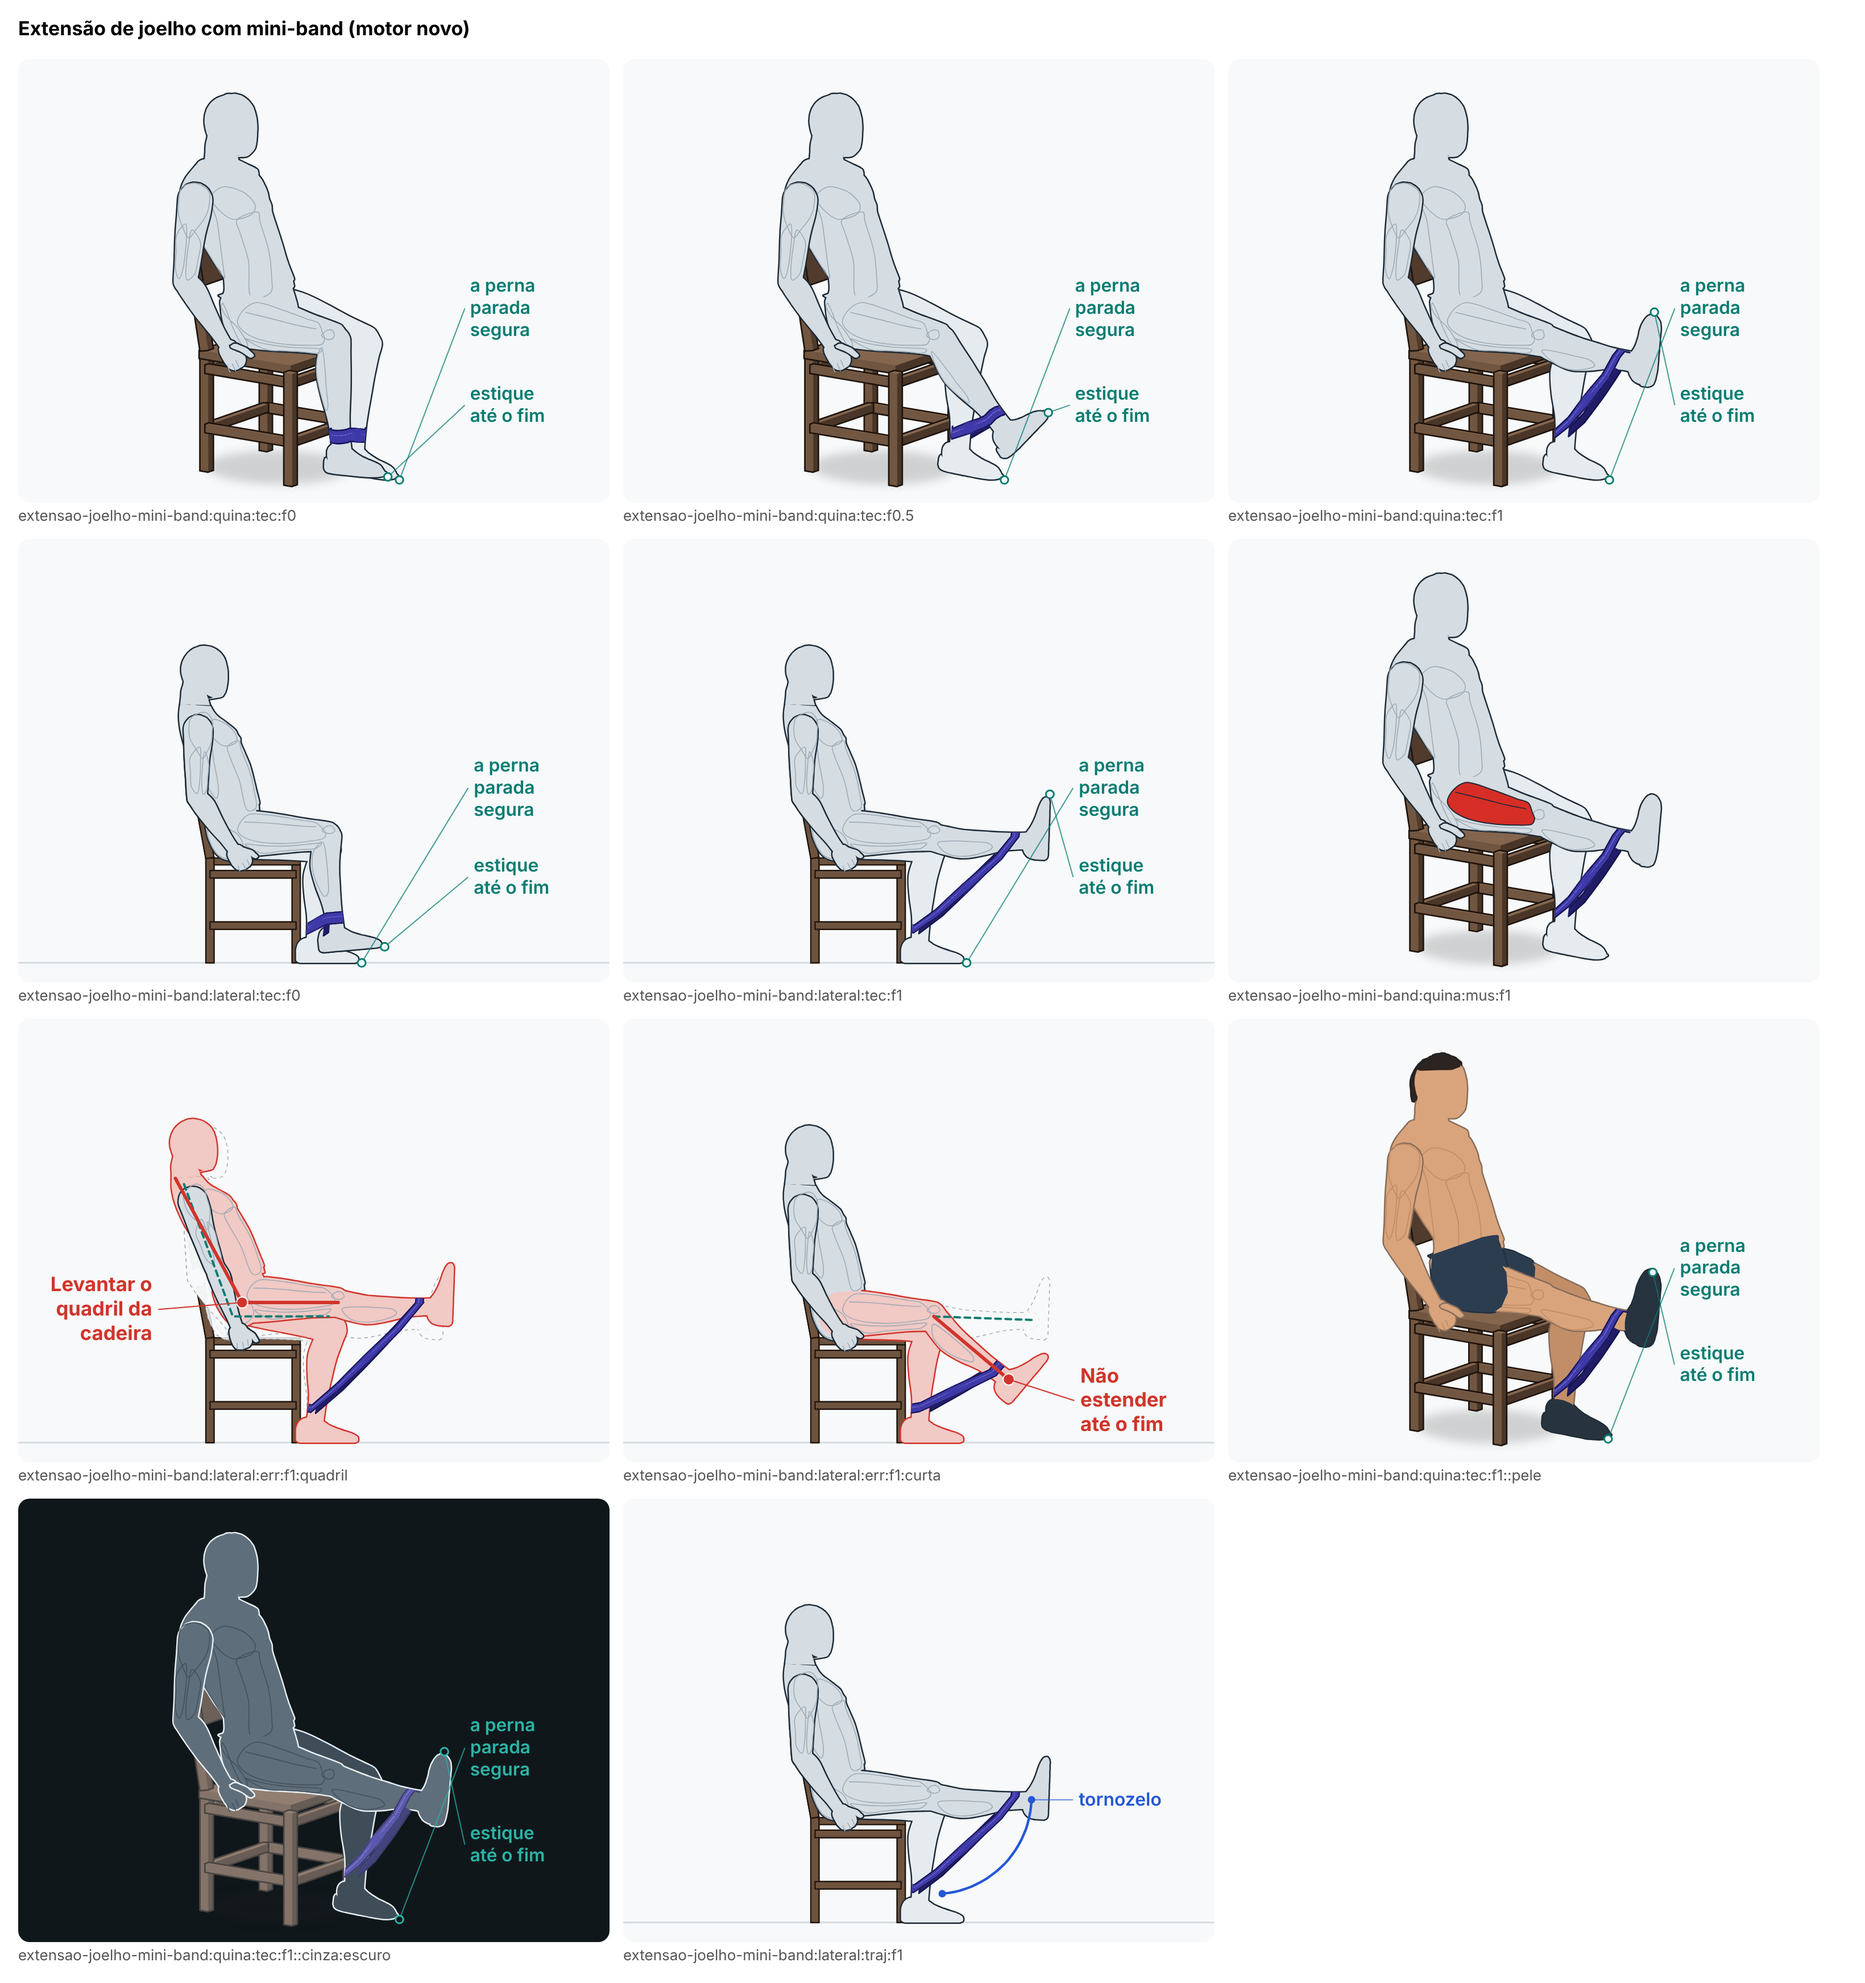
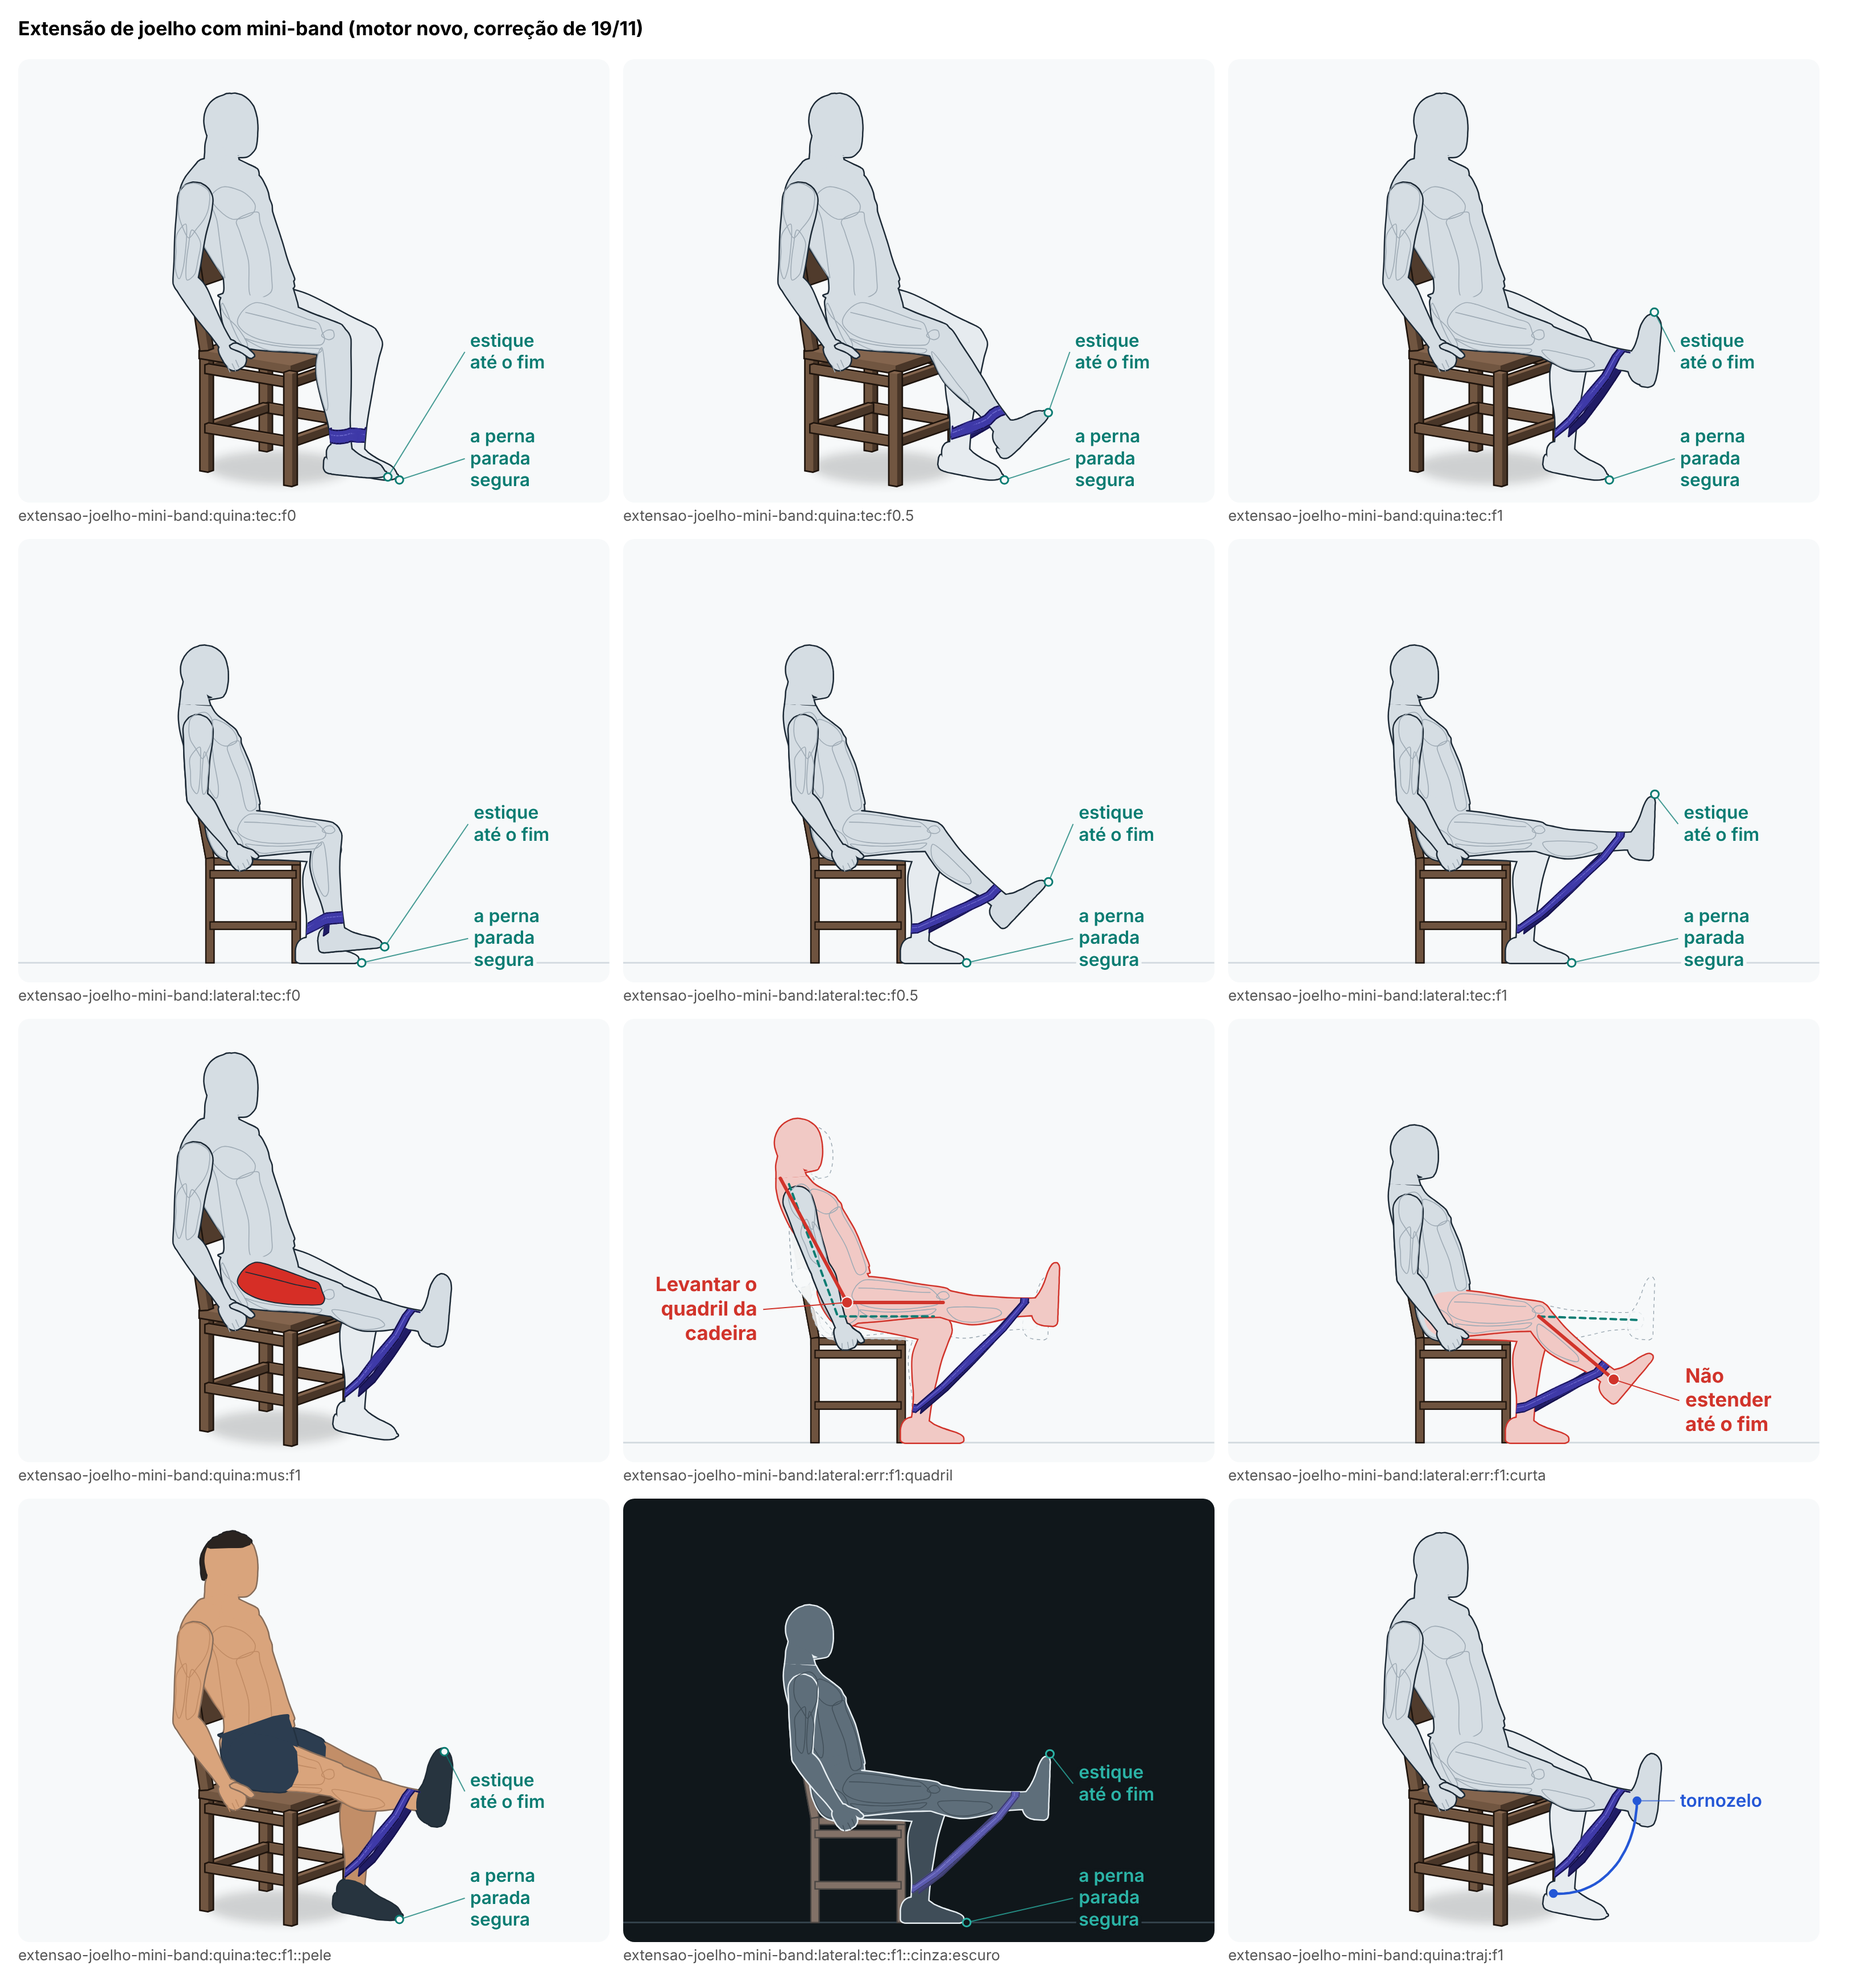
Extensão de joelho com mini-band: as linhas dos rótulos não se cruzam (auditoria M5)
O motor põe os rótulos na ordem da ficha; "estique até o fim" vinha primeiro e
ficava com o lugar do meio, e "a perna parada segura" ia para cima, com as
linhas cruzadas. A ficha passa a listar "a perna parada segura" primeiro, nas
duas vistas: fica embaixo, ao lado do pé parado.

Regra comum `rotulos-sem-linhas-cruzadas` ligada nesta ficha: em 24 instantes
de cada vista, desenhada como no guia, nenhuma linha cruza outra. Antes: 16 de
24 de três quartos e 8 de 24 de lado. Depois: 0 e 0.

Claude-Session: https://claude.ai/code/session_01YRzts8DBGbsca9onebcMt1

diff --git a/docs/revisoes/animacao-nova/lote-A2/extensao-joelho-mini-band.md b/docs/revisoes/animacao-nova/lote-A2/extensao-joelho-mini-band.md
@@ -61,3 +61,24 @@ Não há correção registrada para este id. Da extensão com caneleira: a coxa 
 - **No começo, os dois rótulos ("a perna parada segura" e "estique até o fim") apontam para os dois pés, que estão juntos**: os fios quase se sobrepõem no quadro do começo. Separam-se quando a perna sobe.
 - **O erro de levantar o quadril** chega a 2,50 vezes de faixa (o máximo do fabricante, sem passar).
 - **De lado, o encosto não aparece** (o tronco o cobre): é o motivo de a primeira vista ser a de três quartos.
+
+## Correção de 19/11 (auditoria)
+
+A auditoria das fases A e B (M5) achou que as linhas dos dois rótulos ("a perna parada segura" e "estique até o fim") se cruzam, de três quartos e de lado: cada texto ficava ao lado do ponto do outro, e "a perna parada segura" parecia apontar para o pé que sobe. Os pontos estavam certos (`ponta:L` e `ponta:R`). A animação saiu da aprovação até a correção.
+
+**A causa.** O motor põe os rótulos na ordem da ficha, cada um o mais perto possível da altura média do seu ponto. O primeiro era "estique até o fim", cujo ponto (o pé que sobe) fica, em média, no meio da altura: ele ficava com o lugar do meio. O segundo, "a perna parada segura", tem o ponto embaixo (o pé no chão), mas o lugar de baixo já cruzava o primeiro, e ele ia para cima.
+
+**A mudança.** Só a ordem dos rótulos na ficha, nas duas vistas: "a perna parada segura" vem primeiro e fica com o lugar de baixo, ao lado do pé parado; "estique até o fim" vai para cima, ao lado do pé que sobe. Os textos, os pontos, o selo e a fonte são os mesmos. O enquadramento não mudou (o preparo é o mesmo).
+
+**A regra nova** (comum, `rotulos-sem-linhas-cruzadas`, em `regras/vistas-do-guia.ts`, ligada só nesta ficha): em cada vista do exercício com dois rótulos ou mais, em 24 instantes do ciclo, desenha o quadro como o guia (o enquadramento do guia, o desenho cinza) e confere, segmento a segmento, que as linhas dos rótulos não se cruzam.
+
+| | antes (`1828c0e`) | depois |
+|---|---|---|
+| de três quartos: instantes com as linhas cruzadas | **16 de 24** | 0 de 24 |
+| de lado: instantes com as linhas cruzadas | **8 de 24** | 0 de 24 |
+
+Rodada no estado de antes (a ficha de `1828c0e`, com a regra nova), a conferência dá **1 falha** (esta regra). No estado novo: **0 falhas**, os mesmos avisos de antes.
+
+**Olhado nos quadros** (`quadros/extensao-joelho-mini-band.png`): de três quartos e de lado, no começo, no meio e no fim, "a perna parada segura" fica embaixo, com a linha até o pé no chão, e "estique até o fim" em cima, com a linha até o pé que sobe.
+
+**O que ainda não ficou bom.** No começo do ciclo, com os dois pés juntos embaixo, as duas linhas chegam quase paralelas a pontos a poucos centímetros um do outro: não se cruzam, mas ficam muito perto.
